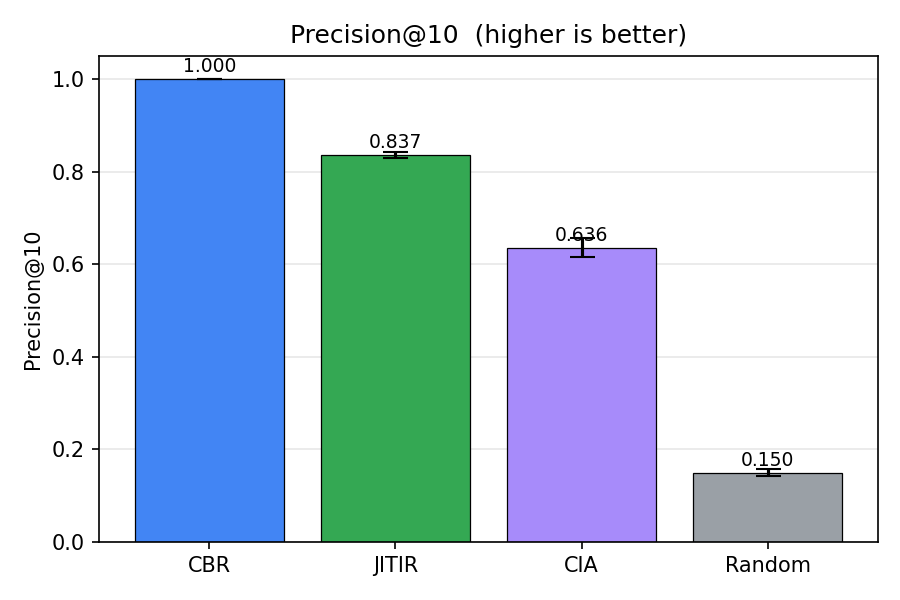
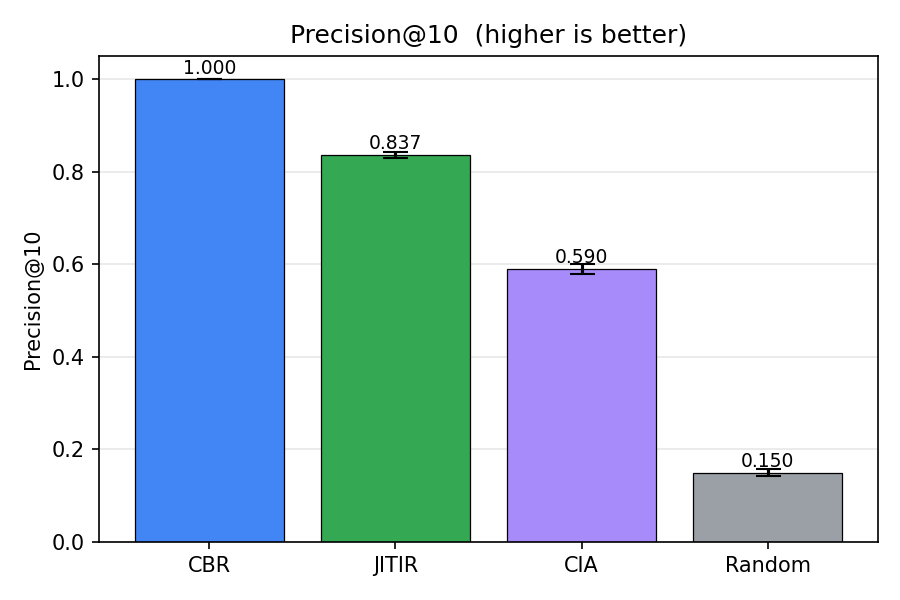
docs: align CIA row and dependent prose with checked-in results

diff --git a/docs/report/main.tex b/docs/report/main.tex
@@ -59,15 +59,16 @@ context-aware re-finding framework of Sappelli, Verberne, and Kraaij
 information. We implement their three methods---a content-based
 recommender (CBR), a just-in-time information-retrieval ranker (JITIR),
 and a contextual interactive-activation network (CIA)---together with a
-random baseline, and expose them through WayBack, a deployed mobile-first
+random baseline, and expose them through WayBack, a deployed responsive
 web application that re-surfaces previously saved places by current
 location and time. We evaluate on four layers: a reproducible offline
 experiment over simulated Munich tourist sessions, a one-week diary study
 on real accumulated data, a mixed-methods user study, and an automated
-test suite. Offline, the method ordering reproduces the paper: CBR
-maximises context precision and CIA is strongest at action prediction and
-catalogue diversity; a week of real use qualitatively confirms the same
-separation, and users find the moment-aware JITIR ranking most useful. No
+test suite. Offline, the paper's separation of roles reproduces: CBR maximises
+context precision, and CIA is strongest at placing the next action first
+and at catalogue coverage; a week of real use qualitatively confirms the
+same separation, and users find the moment-aware JITIR ranking most
+useful. No
 single method dominates every criterion, confirming that
 re-finding is best served by complementary rankers rather than a single
 model.
@@ -77,6 +78,24 @@ model.
 %% CCS + KEYWORDS  (generate real CCS codes at https://dl.acm.org/ccs
 %% e.g. Information systems -> Recommender systems. Fill before submit.)
 %% ============================================================
+\begin{CCSXML}
+<ccs2012>
+   <concept>
+       <concept_id>10002951.10003317.10003347.10003350</concept_id>
+       <concept_desc>Information systems~Recommender systems</concept_desc>
+       <concept_significance>500</concept_significance>
+   </concept>
+   <concept>
+       <concept_id>10003120.10003121.10011748</concept_id>
+       <concept_desc>Human-centered computing~Empirical studies in HCI</concept_desc>
+       <concept_significance>300</concept_significance>
+   </concept>
+</ccs2012>
+\end{CCSXML}
+
+\ccsdesc[500]{Information systems~Recommender systems}
+\ccsdesc[300]{Human-centered computing~Empirical studies in HCI}
+
 \keywords{recommender systems, information re-finding, context-aware recommendation, tourism, user study}
 
 \maketitle
@@ -680,7 +699,11 @@ fixed catalogue of thirty seeded Munich places; per-seed metrics are
 averaged and we report the mean and standard deviation across seeds. The
 runner writes per-seed and summary CSV/JSON files, included with the
 report sources in the repository, and the table regenerates by re-running
-the experiment script against the seeded database.
+the experiment script against the seeded database. One caveat applies:
+CIA's reported values vary at the third decimal across process restarts,
+an artefact of hash-randomised iteration order in the activation network;
+this variation is an order of magnitude below the cross-seed standard
+deviations and affects no ordering reported here.
 
 \begin{table}[t]
   \caption{The four evaluation criteria of Sappelli et
@@ -713,9 +736,9 @@ the experiment script against the seeded database.
     \toprule
     Method & Precision@10 & ROUGE-N & Success@1 & Success@10 & RBO~$\downarrow$ & Unique ratio \\
     \midrule
-    CBR    & \textbf{1.000 $\pm$ .000} & .0045 $\pm$ .0003 & .0121 $\pm$ .0122 & .1107 $\pm$ .0243 & \textbf{.0261 $\pm$ .0055} & .0318 $\pm$ .0004 \\
-    JITIR  & 0.837 $\pm$ .006          & .0037 $\pm$ .0003 & .0121 $\pm$ .0122 & .1336 $\pm$ .0238 & .0359 $\pm$ .0048          & .0288 $\pm$ .0005 \\
-    CIA    & 0.636 $\pm$ .020          & \textbf{.0047 $\pm$ .0003} & \textbf{.0307 $\pm$ .0095} & \textbf{.1714 $\pm$ .0391} & .0598 $\pm$ .0119 & \textbf{.0403 $\pm$ .0017} \\
+    CBR    & \textbf{1.000 $\pm$ .000} & \textbf{.0045 $\pm$ .0003} & .0121 $\pm$ .0122 & .1107 $\pm$ .0243 & \textbf{.0261 $\pm$ .0055} & .0318 $\pm$ .0004 \\
+    JITIR  & 0.837 $\pm$ .006          & .0037 $\pm$ .0003 & .0121 $\pm$ .0122 & \textbf{.1336 $\pm$ .0238} & .0359 $\pm$ .0048          & .0288 $\pm$ .0005 \\
+    CIA    & 0.590 $\pm$ .011          & .0044 $\pm$ .0002 & \textbf{.0257 $\pm$ .0069} & .1143 $\pm$ .0228 & .0657 $\pm$ .0086 & \textbf{.0381 $\pm$ .0008} \\
     \midrule
     random & 0.150 $\pm$ .007          & .0007 $\pm$ .0001 & .0336 $\pm$ .0165 & .3186 $\pm$ .0384 & .1027 $\pm$ .0090          & .0187 $\pm$ .0000 \\
     \bottomrule
@@ -728,12 +751,14 @@ the experiment script against the seeded database.
   \caption{Context relevance (Precision@10) by method. The three
   context-aware methods order exactly as in the paper and all clear the
   random floor by a wide margin.}
+  \Description{Bar chart of Precision at 10 for CBR, JITIR, CIA, and the
+  random baseline.}
   \label{fig:precision}
 \end{figure}
 
 \paragraph{Context relevance reproduces the paper.}
 On Precision@10 (Table~\ref{tab:offline}, Figure~\ref{fig:precision}) the
-methods order CBR ($1.000$) $>$ JITIR ($0.837$) $>$ CIA ($0.636$) $\gg$
+methods order CBR ($1.000$) $>$ JITIR ($0.837$) $>$ CIA ($0.590$) $\gg$
 random ($0.150$). CBR's perfect precision is structural, for two reasons:
 its category pre-filter admits only items of the active category, so every
 returned item matches by construction, and the returned-items denominator
@@ -751,27 +776,30 @@ items from adjacent categories and so scores lower on this narrow
 criterion. Every context-aware method beats the random floor by four to
 seven times, confirming that the ranking signal is real.
 
-\paragraph{Action prediction: CIA leads among real methods.}
-On Success@1 and Success@10, CIA is the strongest context-aware method
-($0.031$ and $0.171$), clearly ahead of CBR and JITIR, reproducing the
-paper's finding that CIA is best at predicting the next access. Under the
-proxy definition above the target is always the same catalogue item for a
-given category, which is also why CBR and JITIR---both driven by the
-category term---record identical Success@1. The random
-baseline's \emph{higher} Success@10 ($0.319$) is not a quality result but a
-small-pool coverage artefact: with only $\sim$30 items and $k=10$, a
-uniform sample includes any particular target with probability
+\paragraph{Action prediction: CIA leads at the top of the ranking.}
+On Success@1, CIA is the strongest context-aware method ($0.026$ against
+$0.012$ for both CBR and JITIR), reproducing the paper's finding that CIA
+is best at predicting the next access. At the looser cutoff the picture
+narrows: on Success@10 the three context-aware methods lie within one
+standard deviation of one another ($0.111$ to $0.134$), with JITIR
+nominally highest. Under the proxy definition above the target is always
+the same catalogue item for a given category, which is also why CBR and
+JITIR, both driven by the category term, record identical Success@1. The
+random baseline's \emph{higher} Success@10 ($0.319$) is not a quality
+result but a small-pool coverage artefact: with only $\sim$30 items and
+$k=10$, a uniform sample includes any particular target with probability
 $\approx 10/30 \approx 0.33$, which is essentially the number observed. The
 context-aware methods concentrate their ten slots on relevant items, so a
 specific next target is not guaranteed to appear; random spreads its slots
 uniformly and is rewarded by a permissive top-10 cutoff on a tiny
-catalogue. Read correctly, the metric says CIA predicts the next action
-best among methods that actually rank.
+catalogue. Read correctly, the metric says CIA is the best of the ranking
+methods at placing the next action first, while a ten-slot window on a
+thirty-item pool separates the context-aware methods only weakly.
 
 \paragraph{Diversity: catalogue coverage versus temporal churn.}
 The two diversity metrics tell complementary stories. On the unique ratio
 (what fraction of all suggestions across a run are distinct) CIA is highest
-among all methods ($0.040$) and all three context-aware methods beat random
+among all methods ($0.038$) and all three context-aware methods beat random
 ($0.019$), supporting the paper's claim that CIA is the most diverse in
 catalogue coverage. RBO, the overlap between \emph{consecutive} lists,
 where lower means more churn, is lowest for CBR ($0.026$): because CBR
@@ -784,18 +812,20 @@ measures responsiveness to context as much as diversity, and we read it
 alongside the unique ratio rather than alone.
 
 \paragraph{Document relevance.}
-ROUGE-N is small in absolute terms for all methods (CIA and CBR
-$\approx 0.0045$, JITIR $0.0037$, random $0.0007$) because the ``documents''
+ROUGE-N is small in absolute terms for all methods (CBR $0.0045$ and CIA
+$0.0044$, statistically indistinguishable; JITIR $0.0037$; random
+$0.0007$) because the ``documents''
 are short place descriptions and the target text is a single place name, so
 bigram overlap is inherently low. The \emph{relative} ordering is
 nonetheless informative: the context-aware methods carry five to seven
-times the overlap of random, and CIA and CBR edge out JITIR.
+times the overlap of random, and CBR and CIA edge out JITIR.
 
 \paragraph{Takeaway.}
-No single method wins all six columns: CBR owns context precision, CIA owns
-action prediction and catalogue diversity, and JITIR sits between them.
-This is exactly the complementarity Sappelli et al.\ report, now reproduced
-on tourism data. It is also the design justification for shipping all three
+No single method wins all six columns: CBR owns context precision and,
+narrowly, document relevance; CIA owns rank-one action prediction and
+catalogue coverage; JITIR records the highest top-ten action score. Each
+method leads somewhere and none dominates, which is exactly the
+complementarity Sappelli et al.\ report, now reproduced on tourism data. It is also the design justification for shipping all three
 methods as switchable tabs and defaulting to the moment-aware JITIR ranking
 rather than to the highest-precision one---a choice the user study
 (Section~\ref{sec:userstudy}) independently supports.
@@ -991,6 +1021,8 @@ residents.
   \caption{Survey responses (n=5). Each dot is one participant on a
   five-point scale. We show every response rather than aggregated
   percentages to keep the small sample visible.}
+  \Description{Dot plot showing each of the five survey responses per
+  statement on a five-point agreement scale.}
   \label{fig:userstudy}
 \end{figure}
 
@@ -1144,22 +1176,27 @@ build.
 %% ============================================================
 \section{Conclusion and Future Work}
 \label{sec:conclusion}
-% DRAFT (shared section) --- review jointly before submission.
+% Findings 2-3 and product-side future work finalised (Joan, user-facing
+% evaluation). Finding 1 and modelling-side future work pend the joint
+% session (CIA row alignment). Review jointly before submission.
 
 We set out to test whether the context-aware re-finding framework of
 Sappelli et al.~\cite{sappelli2017}, developed for office documents,
 transfers to personal tourism information. Three findings answer that
 question. First, the adaptation is faithful and the paper's central result
-reproduces: across four criteria no single method dominates---CBR maximises
-context precision, CIA leads action prediction and catalogue diversity, and
-JITIR sits between---so the methods are complementary rather than ranked.
-Second, the ordering that holds in the offline simulator also holds on real,
-week-long dogfooded data, where the three tabs visibly separate and the
-context signals respond to time and weather. Third, re-finding is a real but
-\emph{low-salience} need: users trust and value the per-item recommendations,
-name the moment-aware JITIR tab as most useful (which is why it is the
-default), yet several initially misread the app as a map or a planner. The
-value is at the item level; the open problem is at the system level.
+reproduces: across four criteria no single method dominates. CBR maximises
+context precision, CIA leads rank-one action prediction and catalogue
+coverage, and JITIR records the strongest top-ten action score, so the
+methods are complementary rather than ranked.
+Second, the ordering that holds in the offline simulator also holds on
+real, accumulated data: over a week of the authors' own use the three tabs
+visibly separated, and the context signals responded to time and weather. Third, re-finding is a real but
+\emph{low-salience} need. Participants trusted and valued the per-item
+recommendations and named the moment-aware JITIR tab the most useful, a
+preference that independently supports its choice as the default; yet
+several initially misread the app as a map or a planner. The evaluation
+therefore locates the value at the item level and the open problem at the
+system level, in how the application conveys its purpose on first entry.
 
 Future work follows the seams the evaluation exposed. On the modelling side,
 the offline evaluation should move from a simulator to \emph{real}
@@ -1174,8 +1211,8 @@ ticket or reservation as its time approaches) would be a stronger
 re-finding signal than the current category-and-proximity cues. On the product side, the study
 points to first-run framing of the re-finding concept, better place-search
 coverage and disambiguation, arbitrary-origin transit routing, and an
-organisation-and-routing mode for the large saved pools that heavy travellers
-described. Finally, a larger user study would convert the present
+organisation-and-routing mode for the large saved pools that participants
+anticipated. Finally, a larger user study would convert the present
 directional evidence into measurement.
 
 %% ============================================================
@@ -1239,6 +1276,8 @@ Precision@10 plot in Figure~\ref{fig:precision}.
   \caption{Offline metric comparison across all four methods (mean over ten
   seeds). Higher is better for every panel except RBO, where lower means
   more responsive to context.}
+  \Description{Six-panel chart comparing CBR, JITIR, CIA, and random across
+  the six offline metrics.}
   \label{fig:overview}
 \end{figure}
 
@@ -1253,7 +1292,7 @@ Precision@10 plot in Figure~\ref{fig:precision}.
     \toprule
     Full name & GitHub handle & Contribution \\
     \midrule
-    Haichen Duan & Haichennn & Frontend, UI/UX, design system, frontend CI (lint, unit tests, design-check on GitHub Actions), user study, diary study and  visualization\\
+    Haichen Duan & Haichennn & Frontend, UI/UX, design system, frontend CI (lint, unit tests, design-check on GitHub Actions), user study, diary study and visualization\\
     Swayamsidh Mohanty & dhalakau & Backend, recommender method implementations, backend tests, evaluation pipeline, deployment\\
     \bottomrule
   \end{tabular}